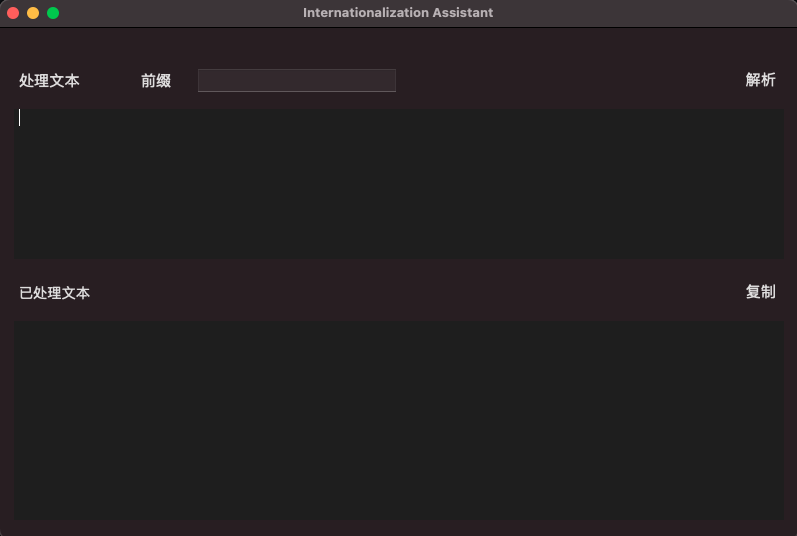
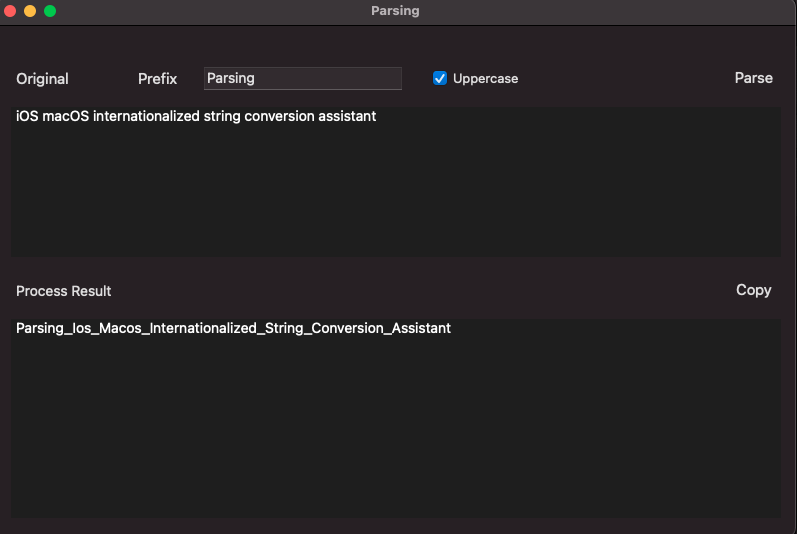
Update README.md

diff --git a/README.md b/README.md
@@ -1,4 +1,7 @@
 # InternationalizationAssistant
-Internationalization Assistant
+
+iOS macOS Internationalized String Conversion Assistant
+
+[Download](https://github.com/orchid-bloom/InternationalizationAssistant/blob/main/Parsing.zip)
 
 ![](./icon.png)
